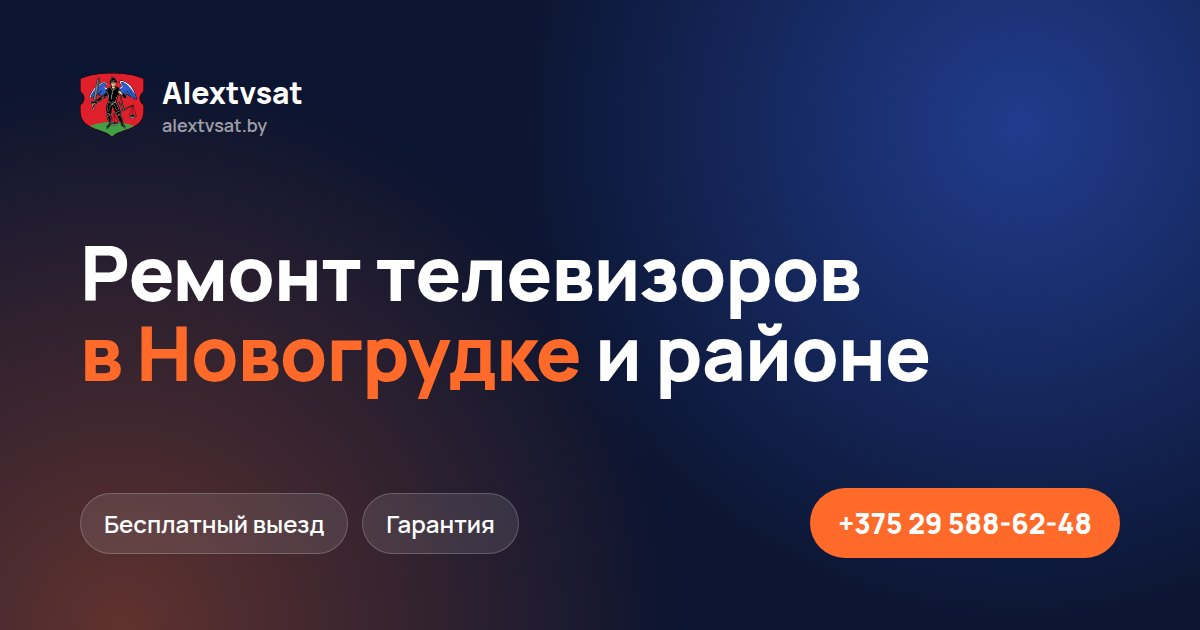
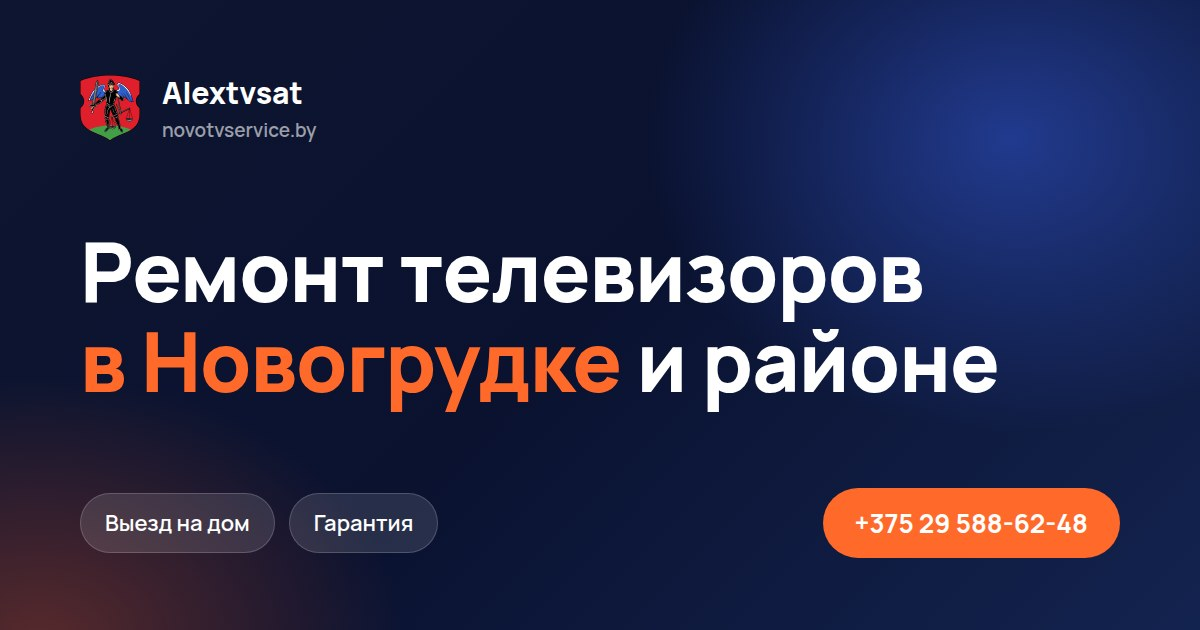
Remove CRT TV repair service

diff --git a/public/index.html b/public/index.html
@@ -4,7 +4,7 @@
   <meta charset="utf-8" />
   <meta name="viewport" content="width=device-width, initial-scale=1, viewport-fit=cover" />
   <title>Ремонт телевизоров в Новогрудке — выезд на дом | Alextvsat</title>
-  <meta name="description" content="Ремонт ЖК, LED и кинескопных телевизоров в Новогрудке и районе. Выезд мастера на дом, бесплатная диагностика, гарантия на работы. Настройка спутникового и цифрового ТВ. Тел. +375 29 588-62-48." />
+  <meta name="description" content="Ремонт ЖК и LED телевизоров в Новогрудке и районе. Выезд мастера на дом, бесплатная диагностика, гарантия на работы. Настройка спутникового и цифрового ТВ. Тел. +375 29 588-62-48." />
   <meta name="robots" content="index, follow, max-image-preview:large" />
   <link rel="canonical" href="https://novotvservice.by/" />
   <meta name="theme-color" content="#0a1230" />
@@ -20,7 +20,7 @@
   <meta property="og:site_name" content="Alextvsat" />
   <meta property="og:url" content="https://novotvservice.by/" />
   <meta property="og:title" content="Ремонт телевизоров в Новогрудке и районе — Alextvsat" />
-  <meta property="og:description" content="Выезд мастера на дом, бесплатная диагностика, гарантия на работы. Ремонт ЖК, LED и кинескопных телевизоров, настройка спутникового и цифрового ТВ." />
+  <meta property="og:description" content="Выезд мастера на дом, бесплатная диагностика, гарантия на работы. Ремонт ЖК и LED телевизоров, настройка спутникового и цифрового ТВ." />
   <meta property="og:image" content="https://novotvservice.by/img/og.jpg" />
   <meta property="og:image:width" content="1200" />
   <meta property="og:image:height" content="630" />

diff --git a/src/content/site.ts b/src/content/site.ts
@@ -42,12 +42,6 @@ export const services = [
     icon: "tv.svg",
   },
   {
-    title: "Ремонт кинескопных телевизоров",
-    content:
-      "Кинескопные телевизоры остаются популярными как бюджетный и надежный вариант. Мы профессионально ремонтируем такие модели и другие виды ТВ.",
-    icon: "old-tv.svg",
-  },
-  {
     title: "Спутниковое и цифровое телевидение",
     content:
       "Ремонт, настройка и установка спутниковых антенн, оборудования для цифрового ТВ, а также ремонт и прошивка тюнеров.",
@@ -137,7 +131,7 @@ export const faq = [
   {
     question: "Какие телевизоры вы ремонтируете?",
     answer:
-      "Ремонтируем ЖК, LED, LCD и кинескопные телевизоры разных производителей, в том числе Smart TV. Чаще всего меняем подсветку, ремонтируем блок питания, материнскую плату и тюнер, перепрошиваем ПО.",
+      "Ремонтируем ЖК, LED и LCD телевизоры разных производителей, в том числе Smart TV. Чаще всего меняем подсветку, ремонтируем блок питания, материнскую плату и тюнер, перепрошиваем ПО.",
   },
   {
     question: "Даёте ли вы гарантию на ремонт?",

diff --git a/src/components/Services/index.tsx b/src/components/Services/index.tsx
@@ -6,11 +6,15 @@ import { Container, Eyebrow, Section, SectionHead } from "../Section";
 
 const Grid = styled.div`
   display: grid;
-  grid-template-columns: repeat(4, 1fr);
+  grid-template-columns: repeat(3, 1fr);
   gap: 24px;
 
   ${media.tablet} {
     grid-template-columns: repeat(2, 1fr);
+
+    & > :last-child:nth-child(odd) {
+      grid-column: 1 / -1;
+    }
   }
 
   ${media.phone} {
@@ -96,7 +100,7 @@ const Services = () => (
       <SectionHead center>
         <Eyebrow>Услуги</Eyebrow>
         <h2>Ремонт телевизоров и настройка ТВ</h2>
-        <p>Ремонтируем телевизоры любых типов в Новогрудке и районе, настраиваем спутниковое и цифровое ТВ, выкупаем технику на запчасти.</p>
+        <p>Ремонтируем ЖК и LED телевизоры в Новогрудке и районе, настраиваем спутниковое и цифровое ТВ, выкупаем технику на запчасти.</p>
       </SectionHead>
       <Grid>
         {services.map((s, i) => (

diff --git a/src/content/structuredData.ts b/src/content/structuredData.ts
@@ -17,7 +17,7 @@ export const buildStructuredData = () => ({
       name: `${company.brand} — ремонт телевизоров в Новогрудке`,
       alternateName: company.brand,
       description:
-        "Ремонт ЖК, LED и кинескопных телевизоров, установка и настройка спутникового и цифрового ТВ, скупка телевизоров на запчасти в Новогрудке и Новогрудском районе. Выезд мастера на дом, бесплатная диагностика, гарантия на работы.",
+        "Ремонт ЖК и LED телевизоров, установка и настройка спутникового и цифрового ТВ, скупка телевизоров на запчасти в Новогрудке и Новогрудском районе. Выезд мастера на дом, бесплатная диагностика, гарантия на работы.",
       url: `${siteUrl}/`,
       logo: `${siteUrl}/img/icons/logo512.png`,
       image: `${siteUrl}/img/og.jpg`,
